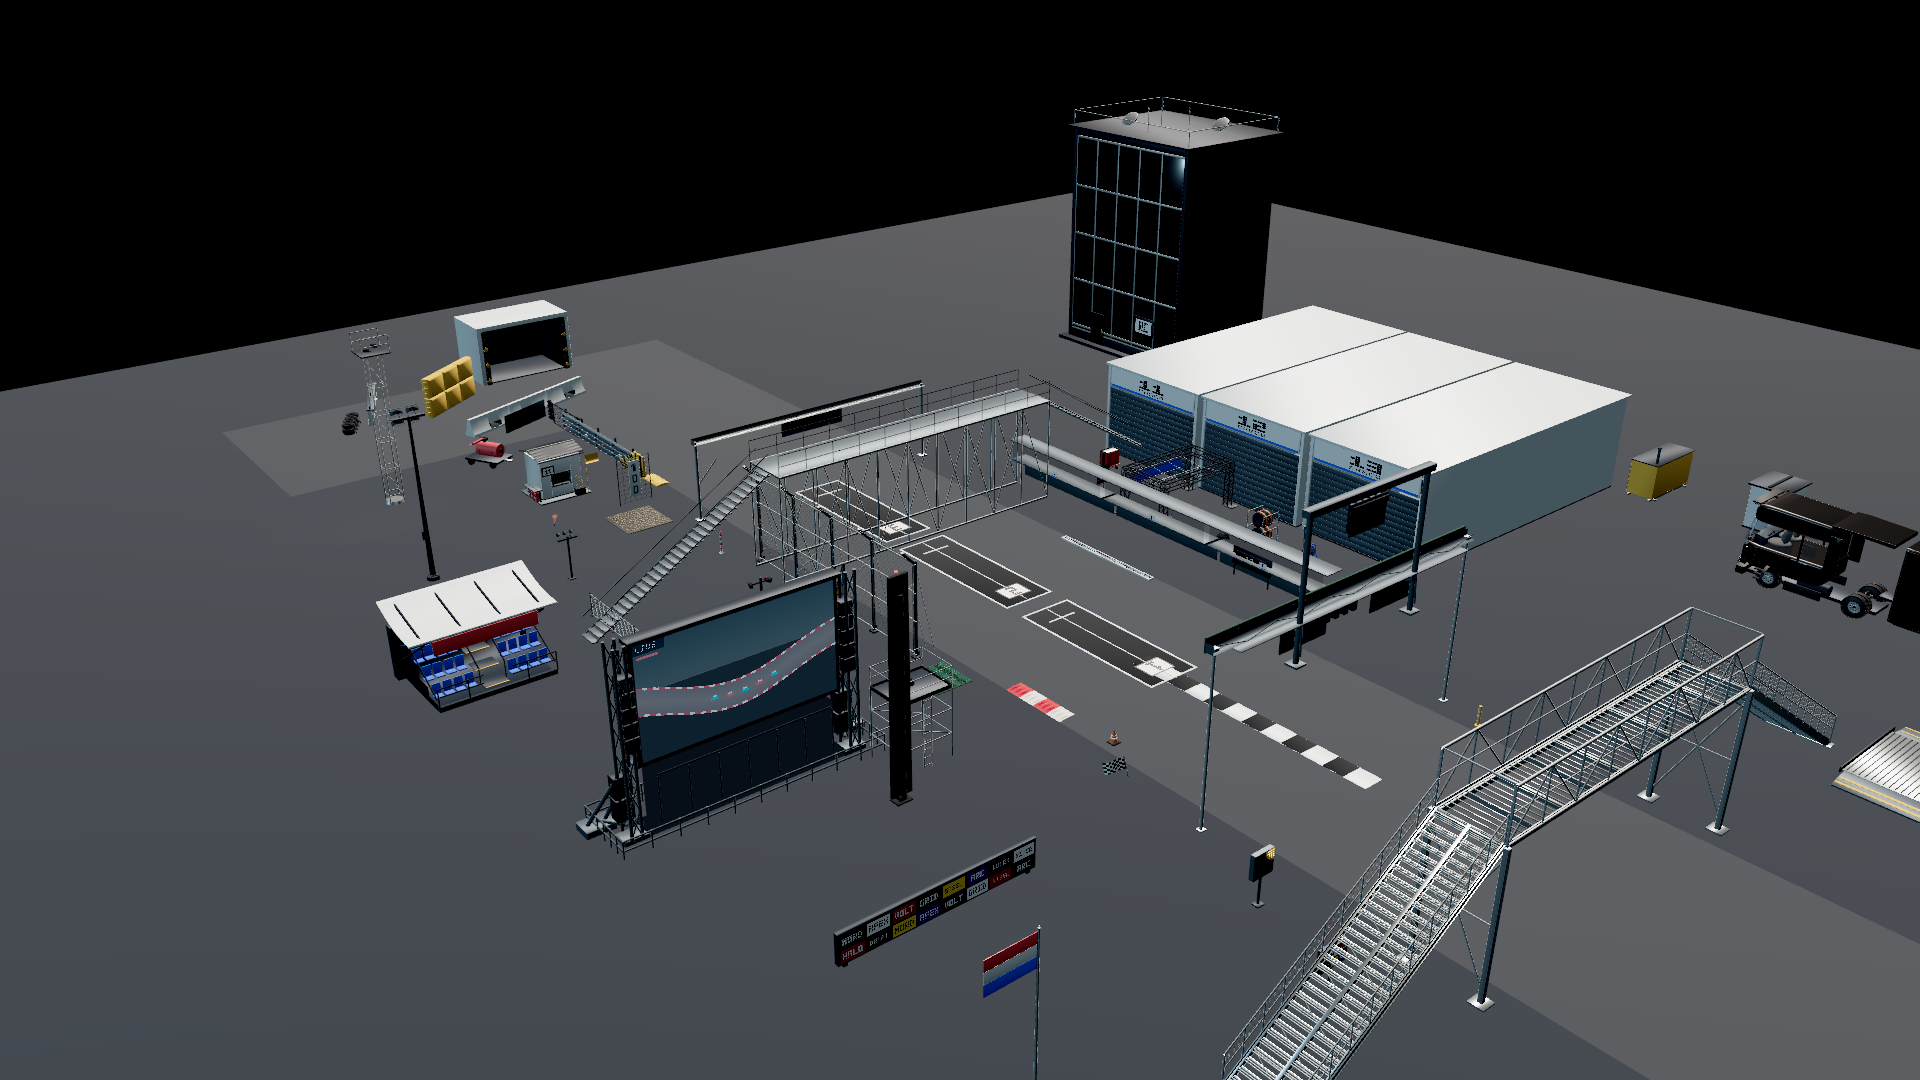
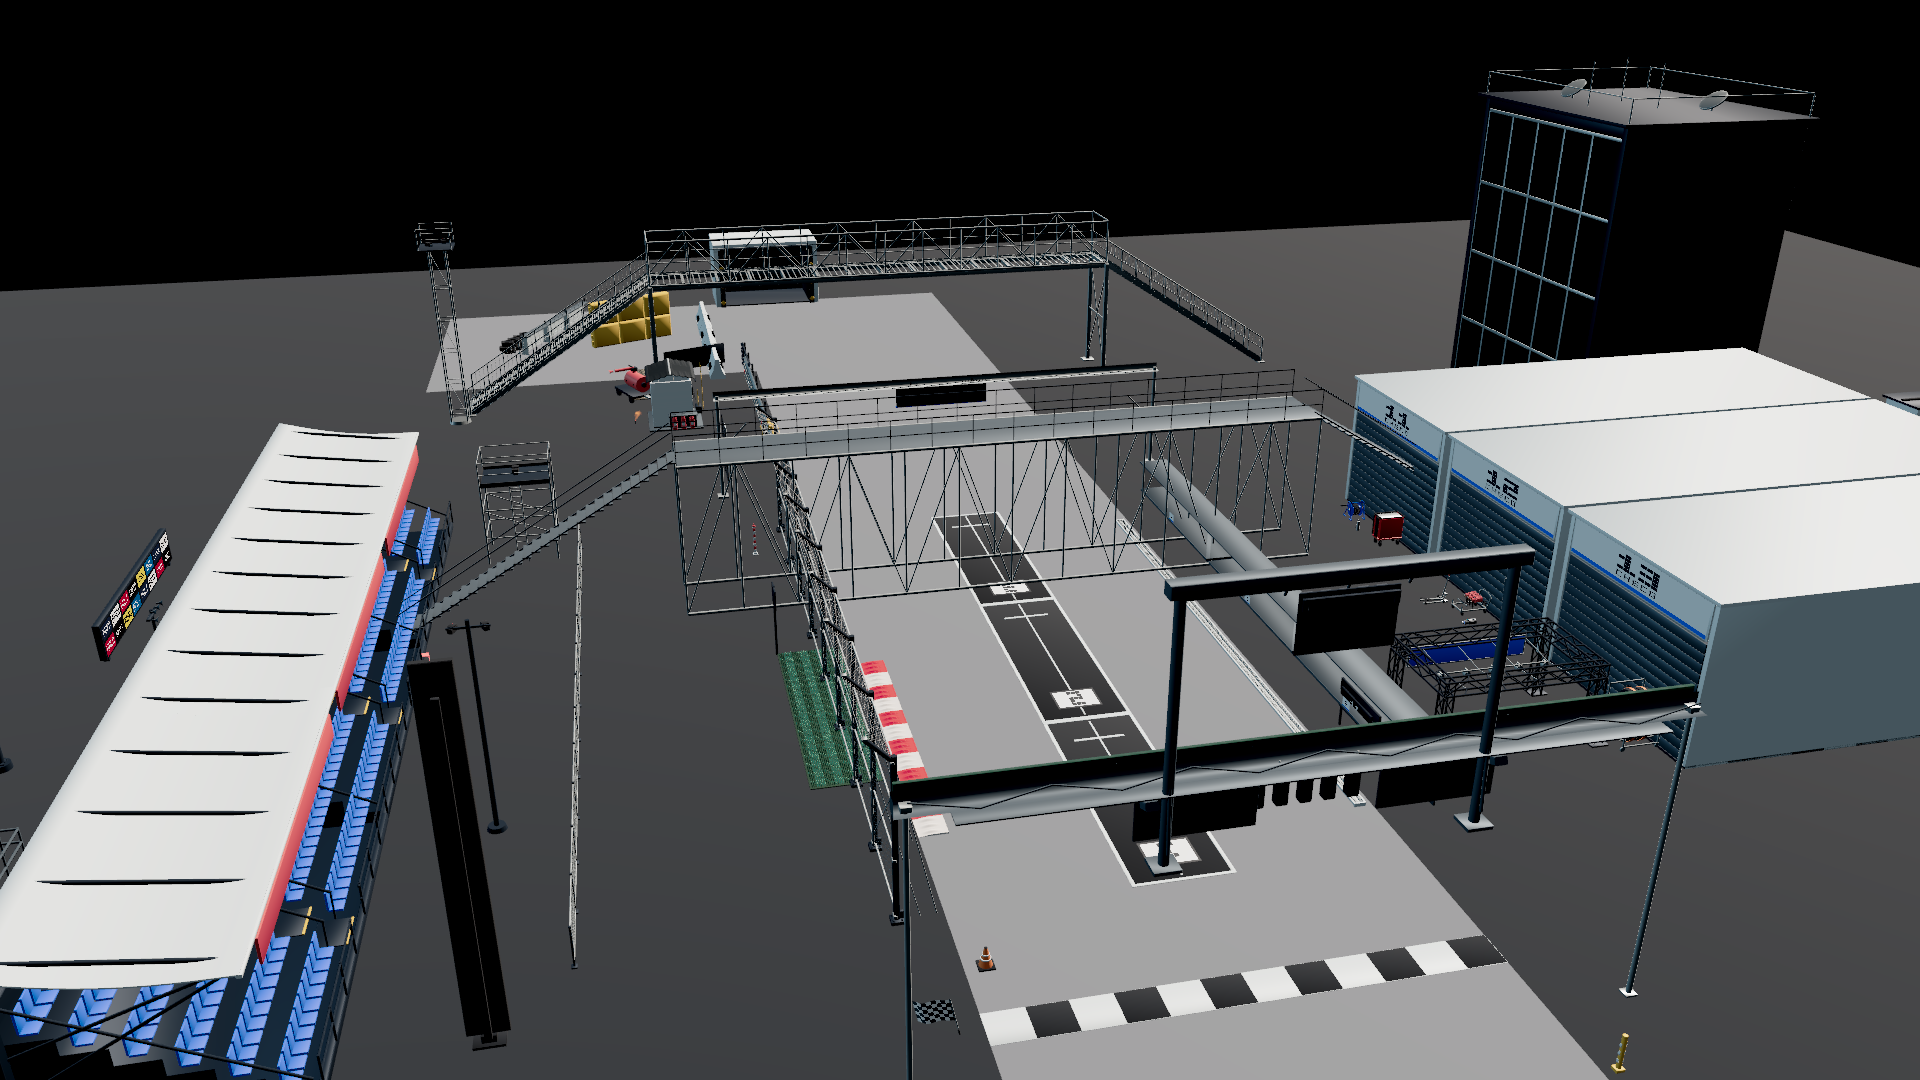
feat(f1-kit): organize pit-straight scene layout
Face grandstands at the ribbon in a three-bay wall, keep the garage opposite
with tools on the door line, span overpasses across the asphalt, and park the
artic so cab and box read as one vehicle. Darker ground so the ribbon reads.

diff --git a/assets/f1-prototypes/f1-kit-scene/kit-scene.ts b/assets/f1-prototypes/f1-kit-scene/kit-scene.ts
@@ -4,6 +4,9 @@
  * Purpose is to show how the kit composes: 7 m garage pitch, WALL_FITS gates,
  * kerb/turf/gravel modules along a line. Every kit id appears at least once.
  * Repeating furniture uses short `modules` so the scene stays test-fast.
+ *
+ * Cross section (looking along +Z): grandstands (−X-facing) | fence | ribbon |
+ * pit wall | tools against garage doors | garage | paddock.
  */
 
 import {
@@ -19,7 +22,7 @@ import {
   Vector3,
 } from 'three/webgpu'
 
-import { TOKEN, shade } from '../f1-kit-core/index.ts'
+import { GARAGE, GARAGE_BAY_PITCH, PIT_WALL, TOKEN, shade } from '../f1-kit-core/index.ts'
 import { createModel as createTyre } from '../f1-tyre/model.ts'
 import { createModel as createStack } from '../f1-tyre-stack/model.ts'
 import { createModel as createReel } from '../f1-hose-reel/model.ts'
@@ -104,7 +107,22 @@ export interface F1KitScene {
   dispose(): void
 }
 
+/** Local +Z (doors, glass, seats) → world +X. */
+const FACE_PIT = Math.PI / 2
+/** Local +Z → world −X (spectator furniture looking at the ribbon). */
+const FACE_SPEC = -Math.PI / 2
+/** Local-X runs (kerbs, fences, walls) → world Z along the ribbon. */
 const ALONG = Math.PI / 2
+
+const RIBBON_W = 12
+const RIBBON_HALF = RIBBON_W / 2
+const SPAN = 22
+const STAND_X = 22
+const STAND_PITCH = 10
+const DOOR_X = -(RIBBON_HALF + 1.2 + 8)
+const GARAGE_X = DOOR_X - GARAGE.depth / 2
+const WALL_X = -(RIBBON_HALF + 0.6 + PIT_WALL.depth / 2)
+const TOOL_X = DOOR_X + 0.55
 
 export function createScene(): F1KitScene {
   const root = new Group()
@@ -121,13 +139,13 @@ export function createScene(): F1KitScene {
 
   const asphaltMat = new MeshStandardMaterial({
     name: 'f1-kit / scene asphalt',
-    color: shade(TOKEN.INK_950, 0.12),
+    color: shade(TOKEN.INK_950, 0.42),
     roughness: 0.92,
     metalness: 0,
   })
   const groundMat = new MeshStandardMaterial({
     name: 'f1-kit / scene ground',
-    color: shade(TOKEN.GRAPHITE_800, -0.2),
+    color: shade(TOKEN.GRAPHITE_800, -0.45),
     roughness: 0.96,
     metalness: 0,
   })
@@ -146,7 +164,7 @@ export function createScene(): F1KitScene {
   root.add(ground)
   extras.push({ dispose: () => { ground.geometry.dispose() } })
 
-  const ribbon = new Mesh(new PlaneGeometry(12, 88), asphaltMat)
+  const ribbon = new Mesh(new PlaneGeometry(RIBBON_W, 88), asphaltMat)
   ribbon.name = 'scene-asphalt'
   ribbon.rotation.x = -Math.PI / 2
   ribbon.position.set(0, 0.002, 0)
@@ -154,98 +172,104 @@ export function createScene(): F1KitScene {
   root.add(ribbon)
   extras.push({ dispose: () => { ribbon.geometry.dispose() } })
 
-  const hairpin = new Mesh(new PlaneGeometry(28, 12), asphaltMat)
+  const hairpin = new Mesh(new PlaneGeometry(28, 14), asphaltMat)
   hairpin.name = 'scene-hairpin'
   hairpin.rotation.x = -Math.PI / 2
-  hairpin.position.set(8, 0.002, 38)
+  hairpin.position.set(8, 0.002, 40)
   hairpin.receiveShadow = true
   root.add(hairpin)
   extras.push({ dispose: () => { hairpin.geometry.dispose() } })
 
-  // Ribbon — grid, SF, lights, kerbs, runoff tiles.
-  add(createGridBox({ index: 1 }), 0, -6)
-  add(createGridBox({ index: 2 }), 0, 3)
-  add(createGridBox({ index: 3 }), 0, 12)
-  add(createStartFinishLine({ kind: 'SF', width: 12 }), 0, -14, ALONG)
-  add(createStartGantry({ span: 14, height: 7.2 }), 0, -18)
+  // Ribbon — grid, SF, lights, edge runs.
+  add(createGridBox({ index: 1 }), 0, -8)
+  add(createGridBox({ index: 2 }), 0, 0)
+  add(createGridBox({ index: 3 }), 0, 8)
+  add(createStartFinishLine({ kind: 'SF', width: RIBBON_W }), 0, -16, 0)
+  add(createStartGantry({ span: 16, height: 7.2 }), 0, -18)
   add(createStartLights({ lit: 5 }), 0, -18.4, 0, 5.4)
-  add(createChequeredFlag({ waving: true, windXZ: [0.9, -0.4] }), 6.6, -14, -0.4, 0)
-  add(createKerb({ modules: 4 }), 5.6, -8, ALONG)
-  add(createSausageKerb({ modules: 2 }), 6.2, 22, ALONG)
-  add(createSlotDrain({ modules: 3 }), -5.7, 0, ALONG)
-  add(createAstroturf({ modules: 2 }), 7.6, -4, ALONG)
-  add(createGravelTrap({ modules: 1 }), 9.4, 18, ALONG)
+  add(createChequeredFlag({ waving: true, windXZ: [0.9, -0.4] }), RIBBON_HALF + 0.55, -16, -0.35)
+  add(createKerb({ modules: 12 }), RIBBON_HALF - 0.4, -4, ALONG)
+  add(createSausageKerb({ modules: 6 }), RIBBON_HALF + 0.3, 22, ALONG)
+  add(createSlotDrain({ modules: 10 }), -(RIBBON_HALF - 0.35), 0, ALONG)
+  add(createAstroturf({ modules: 8 }), RIBBON_HALF + 1.4, -2, ALONG)
+  add(createGravelTrap({ modules: 2 }), 11, 32, ALONG)
 
-  // Pit (−X).
-  add(createGarageBox({ count: 3, number: '11', legend: 'CHECO' }), -24, 0, ALONG)
-  add(createPitWall({ bays: 3, labels: ['11', '22', '33'] }), -9.2, 0, ALONG)
-  add(createNameboard(), -9.0, -6, ALONG)
-  add(createPitGantry({ span: 5, height: 2.5 }), -12.5, 2)
-  add(createLollipop(), -11.2, 4)
-  add(createPitBoard(), -10.4, 5.2)
-  add(createTyre(), -11.6, -2)
-  add(createStack(), -12.8, -3.4)
-  add(createTyreGun(), -10.8, -1.2)
-  add(createGunRack(), -13.4, 6)
-  add(createPitJack(), -10.6, 0.8)
-  add(createCabinet(), -13.6, 8)
-  add(createExtinguisher(), -10.2, 7.4)
-  add(createReel(), -13.2, -6)
+  // Pit (−X): wall, garage, tools stacked on the door wall.
+  add(createGarageBox({ count: 3, number: '11', legend: 'CHECO' }), GARAGE_X, 0, FACE_PIT)
+  add(createPitWall({ bays: 3, labels: ['11', '22', '33'] }), WALL_X, 0, FACE_PIT)
+  add(createNameboard(), WALL_X + 0.2, -GARAGE_BAY_PITCH, FACE_PIT)
+  add(createPitGantry({ span: 5, height: 2.5 }), (WALL_X + DOOR_X) / 2, -GARAGE_BAY_PITCH)
+  add(createLollipop(), TOOL_X - 1.6, -GARAGE_BAY_PITCH + 1.4)
+  add(createPitBoard(), TOOL_X - 1.4, -GARAGE_BAY_PITCH + 2.6)
+  add(createStack(), TOOL_X, -GARAGE_BAY_PITCH - 1.6)
+  add(createGunRack(), TOOL_X, 0)
+  add(createCabinet(), TOOL_X, GARAGE_BAY_PITCH - 1.2)
+  add(createReel(), TOOL_X, GARAGE_BAY_PITCH + 1.4)
+  add(createTyre(), TOOL_X + 0.7, -GARAGE_BAY_PITCH - 0.2)
+  add(createTyreGun(), TOOL_X + 0.55, -0.8)
+  add(createPitJack(), TOOL_X + 0.7, 0.9)
+  add(createExtinguisher(), TOOL_X + 0.45, GARAGE_BAY_PITCH + 0.2)
 
-  // Spectator (+X).
-  add(createCatchFence({ length: 12, height: 5 }), 7.2, 4, ALONG)
-  add(createCrowdFence({ length: 8 }), 16, 6, ALONG)
-  add(createGrandstandBay({ rows: 4, width: 5 }), 22, 8, Math.PI)
-  add(createJumbotron(), 18, -6, Math.PI)
-  add(createFloodlight({ height: 8 }), 20, 18)
-  add(createPaHorn(), 15, 14)
-  add(createCctvMast(), 14.5, -2)
-  add(createMarshalPost({ number: '11', flag: 'yellow' }), 11, 24, Math.PI)
-  add(createOranjeCan({ lit: true }), 13, 20)
-  add(createLedRibbon({ length: 8 }), 17, -16, Math.PI)
+  // Spectator (+X): fence, then a stand wall facing the ribbon.
+  add(createCatchFence({ length: 24, height: 5 }), RIBBON_HALF + 1.15, 0, ALONG)
+  add(createCrowdFence({ length: 24 }), 14.5, 0, ALONG)
+  add(createGrandstandBay({ rows: 6, width: 10 }), STAND_X, -STAND_PITCH, FACE_SPEC)
+  add(createGrandstandBay({ rows: 6, width: 10 }), STAND_X, 0, FACE_SPEC)
+  add(createGrandstandBay({ rows: 6, width: 10 }), STAND_X, STAND_PITCH, FACE_SPEC)
+  add(createJumbotron(), 29, -STAND_PITCH, FACE_SPEC)
+  add(createLedRibbon({ length: 8 }), 29, STAND_PITCH, FACE_SPEC)
+  add(createFloodlight({ height: 12 }), 30, 0)
+  add(createPaHorn(), 27, 5, FACE_SPEC)
+  add(createCctvMast(), 16.5, -6)
+  add(createTimingPylon(), 16.2, -14)
+  add(createFlagPole({ height: 6 }), 26, -18)
+  add(createMarshalPost({ number: '11', flag: 'yellow' }), 10.5, 26, FACE_SPEC)
+  add(createOranjeCan({ lit: true }), 12.2, 26)
 
-  // Hairpin / runoff (+Z).
-  add(createArmco({ bays: 4 }), 6.5, 28, ALONG)
-  add(createJersey({ modules: 3 }), 7.0, 36, 0.35)
-  add(createConcreteWall({ bays: 2 }), 14, 42, 1.2)
-  add(createAccessGate({ fits: 'armco', width: 3 }), 6.5, 32, ALONG)
-  add(createCrashCushion({ fits: 'armco' }), 6.5, 24, ALONG)
-  add(createTecpro({ columns: 3, rows: 2 }), 10, 40, 0.6)
-  add(createTyreBarrier({ columns: 4, rows: 3, depth: 1 }), 16, 40, 1.1)
-  add(createChevronBoard(), 8, 34, 0.4)
-  add(createBrakeMarker({ distance: 100 }), 8.4, 20, Math.PI)
-  add(createMarkerPost(), 8.2, 12)
-  add(createCircuitSign({ kind: 'DRS' }), 8.4, 2, Math.PI)
-  add(createFiaLightPanel(), 8.6, -22, Math.PI)
-  add(createCameraTower({ height: 8 }), 18, 28)
-  add(createFoamMonitor(), 12, 30, 0.5)
-  add(createCone(), 5.4, -12)
-  add(createBollard(), -6.4, -20)
+  // Over the ribbon — yaw 0 spans X. Bridge is the mid-straight crossing.
+  add(createSpectatorBridge({ span: SPAN }), 0, 6)
+  add(createSectorGantry({ span: 18, sector: 2 }), 0, 16)
+  add(createStairs({ kind: 'overpass', span: SPAN }), 0, 30)
 
-  // Spans and heroes.
-  add(createSectorGantry({ span: 14, sector: 2 }), 0, 16)
-  add(createSpectatorBridge({ span: 16 }), 0, 8)
-  add(createStairs({ kind: 'overpass', span: 14 }), 0, -28)
-  add(createRaceControl(), -32, 22, ALONG)
-  add(createTimingPylon(), 14, -10)
-  add(createFlagPole({ height: 6 }), 20, -24)
-  add(createCameraPlatform(), 12, -8)
-  add(createTunnelPortal(), 4, 44, Math.PI)
+  // Hairpin / runoff (+Z) — one wall line, then the pad.
+  add(createArmco({ bays: 6 }), RIBBON_HALF + 0.55, 26, ALONG)
+  add(createAccessGate({ fits: 'armco', width: 3 }), RIBBON_HALF + 0.55, 32, ALONG)
+  add(createCrashCushion({ fits: 'armco' }), RIBBON_HALF + 0.55, 22, ALONG)
+  add(createJersey({ modules: 4 }), 8, 38, ALONG)
+  add(createConcreteWall({ bays: 3 }), 16, 42, 1.15)
+  add(createTecpro({ columns: 3, rows: 2 }), 12, 40, 0.4)
+  add(createTyreBarrier({ columns: 4, rows: 3, depth: 1 }), 18, 40, 1.05)
+  add(createChevronBoard(), 9, 34, 0.35)
+  add(createBrakeMarker({ distance: 100 }), 8.6, 18, FACE_SPEC)
+  add(createMarkerPost(), 8.3, 10)
+  add(createCircuitSign({ kind: 'DRS' }), 8.4, 2, FACE_SPEC)
+  add(createFiaLightPanel(), 8.5, -22, FACE_SPEC)
+  add(createCameraTower({ height: 8 }), 20, 28)
+  add(createCameraPlatform(), 16.5, 12)
+  add(createFoamMonitor(), 12, 30, 0.4)
+  add(createCone(), 5.5, -14)
+  add(createBollard(), -(RIBBON_HALF + 0.35), -20)
+  add(createTunnelPortal(), 4, 48, Math.PI)
+  add(createSectorBoard({ sector: 1 }), 10, -20, FACE_SPEC)
 
-  // Paddock / ceremony (−Z).
-  add(createServiceTruck({ kind: 'box', lamps: false, wheelRpm: 0 }), -28, -28, ALONG)
-  add(createParcFerme(), -22, -36, ALONG)
-  add(createWeighbridge(), -16, -32, ALONG)
-  add(createMedicalPost(), -34, -18)
-  add(createGeneratorCabin(), -34, -12)
-  add(createPodium(), -22, -48, Math.PI)
-  add(createTrophyTable(), -22, -51)
-  add(createTrophyCup(), -22, -50.6, 0, 0.75)
-  add(createChampagne(), -21.2, -50.6, 0, 0.75)
-  add(createIceBucket(), -22.8, -50.6, 0, 0.75)
-  add(createInterviewBackdrop(), -16, -48, Math.PI)
-  add(createCooldownBoard(), -18, -46, Math.PI)
-  add(createSectorBoard({ sector: 1 }), 10, -26, Math.PI)
+  // Paddock (behind the garage). Cab toward −Z so the still sees cab+box as one artic.
+  add(createRaceControl(), GARAGE_X - 6, 16, FACE_PIT)
+  const truck = createServiceTruck({ kind: 'box', lamps: true, wheelRpm: 0 })
+  truck.setGround(ground)
+  add(truck, GARAGE_X - 10, -18, FACE_PIT)
+  add(createWeighbridge(), GARAGE_X - 8, 8, FACE_PIT)
+  add(createParcFerme(), GARAGE_X - 10, -16, FACE_PIT)
+  add(createMedicalPost(), GARAGE_X - 18, 10)
+  add(createGeneratorCabin(), GARAGE_X - 18, 4)
+
+  // Ceremony cluster — behind the service row, not on the straight.
+  add(createPodium(), GARAGE_X - 12, -28, Math.PI)
+  add(createTrophyTable(), GARAGE_X - 12, -31)
+  add(createTrophyCup(), GARAGE_X - 12, -30.6, 0, 0.75)
+  add(createChampagne(), GARAGE_X - 11.2, -30.6, 0, 0.75)
+  add(createIceBucket(), GARAGE_X - 12.8, -30.6, 0, 0.75)
+  add(createInterviewBackdrop(), GARAGE_X - 6, -28, Math.PI)
+  add(createCooldownBoard(), GARAGE_X - 8, -26, Math.PI)
 
   return {
     root,
@@ -278,10 +302,10 @@ export function createPreview({ aspect, time }: { aspect: number; time?: number 
   fill.position.set(45, 18, 20)
   scene.add(fill)
 
-  const camera = new PerspectiveCamera(38, aspect > 0 ? aspect : 1, 0.5, 280)
+  const camera = new PerspectiveCamera(40, aspect > 0 ? aspect : 1, 0.5, 280)
   camera.name = 'f1-kit / scene camera'
-  camera.position.set(42, 32, -48)
-  const focus = new Vector3(0, 1.2, 4)
+  camera.position.set(12, 22, -40)
+  const focus = new Vector3(2, 2.5, 4)
   camera.lookAt(focus)
   camera.updateProjectionMatrix()
   scene.add(camera)

diff --git a/src/platforms/browser.ts b/src/platforms/browser.ts
@@ -82,8 +82,8 @@ export async function startBrowserPlayground(host: HTMLDivElement): Promise<() =
   controls.enableDamping = true
   controls.dampingFactor = 0.055
   const wide = playground.id === 'f1-kit-scene'
-  controls.minDistance = wide ? 12 : 5.5
-  controls.maxDistance = wide ? 140 : 24
+  controls.minDistance = wide ? 14 : 5.5
+  controls.maxDistance = wide ? 150 : 24
   controls.maxPolarAngle = Math.PI * 0.49
   controls.update()
 

diff --git a/src/playgrounds/f1-kit-scene.ts b/src/playgrounds/f1-kit-scene.ts
@@ -24,9 +24,9 @@ export function createF1KitPlayground(options: PlaygroundOptions): Playground {
 
   const camera = new PerspectiveCamera(38, options.aspect, 0.4, 280)
   camera.name = 'CAMERA / F1 STRAIGHT'
-  camera.position.set(48, 34, -52)
+  camera.position.set(14, 24, -44)
 
-  const focus = new Vector3(0, 1.4, 6)
+  const focus = new Vector3(2, 2.5, 4)
   camera.lookAt(focus)
 
   const world = new Group()
